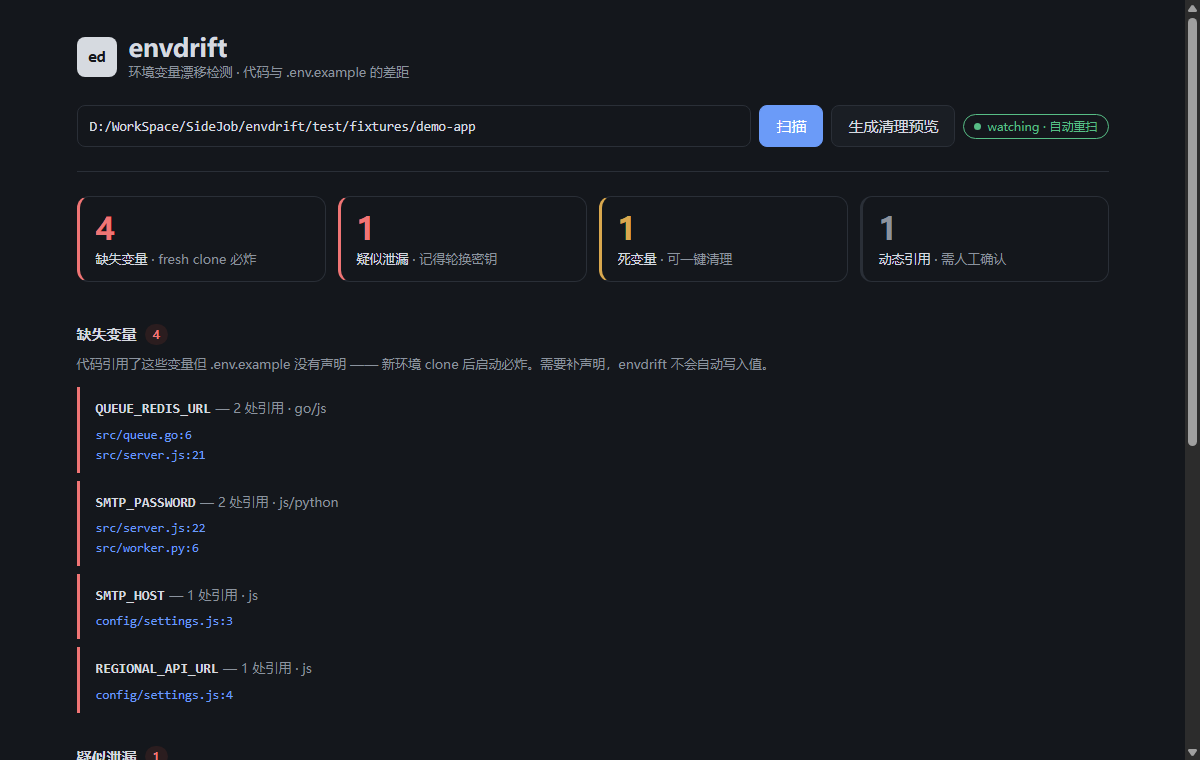
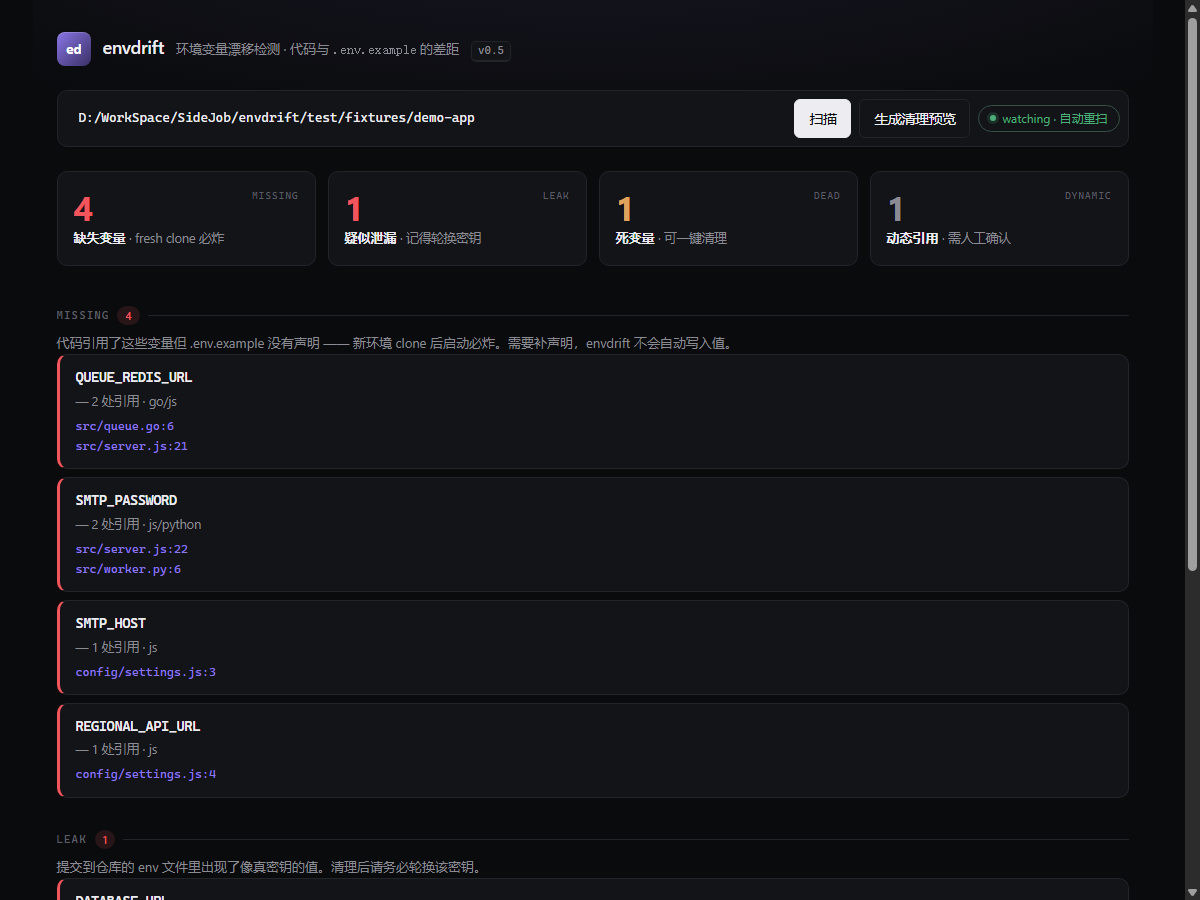
style(ui): redesign dashboard in Linear/Vercel-Geist aesthetic (v0.6)
- dark-first tokens: #0a0b0d base + layered surfaces, 1px hairlines,
  violet accent (#8b77e8 dark / #6e56cf light), top halo gradient
- Inter-led type ramp: tighter headings (-0.02em), mono for all technical
  strings, eyebrow uppercase section headers with hairline rules
- Vercel-style primary button (solid fg on bg), surface scan bar card,
  stat cards with mono uppercase corner tags, zero-state calm
- findings upgraded from left-rail rows to bordered surface cards
- diff: softened row tints via color-mix, ghost gutter numbers
- screenshots refreshed: light, dark, preview

diff --git a/src/web/index.html b/src/web/index.html
@@ -8,167 +8,218 @@
 :root {
   --space-1: 4px; --space-2: 8px; --space-3: 12px; --space-4: 16px;
   --space-5: 24px; --space-6: 32px; --space-7: 48px;
-  --radius-sm: 8px; --radius-md: 12px;
-  --text-sm: 13px; --text-base: 15px; --text-lg: 20px; --text-xl: 25px;
-  --fg: #1a1d21; --fg-muted: #5b6470; --bg: #ffffff; --bg-subtle: #f6f7f9;
-  --line: #e3e6ea; --accent: #2f6df6; --accent-subtle: #eef3fe;
-  --danger: #d93a3a; --danger-subtle: #fdf0f0;
-  --warn: #b97f10; --warn-subtle: #fdf7ea;
-  --ok: #1a7f4b; --ok-subtle: #ecf8f1;
-  --mono: ui-monospace, "JetBrains Mono", Consolas, monospace;
+  --radius-sm: 6px; --radius-md: 10px;
+  --text-sm: 13px; --text-base: 14px; --text-lg: 18px; --text-xl: 24px;
+  /* Geist-flavored light */
+  --bg: #fafafa; --bg-subtle: #f4f4f5; --surface: #ffffff;
+  --fg: #18181b; --fg-muted: #71717a; --fg-faint: #a1a1aa;
+  --line: #e4e4e7; --line-strong: #d4d4d8;
+  --accent: #6e56cf; --accent-subtle: #f0eefb;
+  --danger: #dc3d43; --danger-subtle: #fef1f1;
+  --warn: #b45309; --warn-subtle: #fdf6ec;
+  --ok: #15803d; --ok-subtle: #effaf3;
+  --mono: ui-monospace, "SF Mono", "Cascadia Code", Consolas, monospace;
+  --sans: "Inter", -apple-system, "Segoe UI", "PingFang SC", "Microsoft YaHei", system-ui, sans-serif;
+  --halo: radial-gradient(1200px 320px at 50% -80px, rgba(110, 86, 207, 0.07), transparent 70%);
 }
 @media (prefers-color-scheme: dark) {
   :root {
-    --fg: #d6dae0; --fg-muted: #8b939e; --bg: #14171c; --bg-subtle: #1a1e24;
-    --line: #2a2f37; --accent: #6b9bf8; --accent-subtle: #1d2634;
-    --danger: #f07575; --danger-subtle: #2b1d1f;
-    --warn: #d9a84e; --warn-subtle: #2a2318;
-    --ok: #57bd85; --ok-subtle: #16241d;
+    --bg: #0a0b0d; --bg-subtle: #101114; --surface: #131418;
+    --fg: #ececf1; --fg-muted: #8b8b93; --fg-faint: #5c5c64;
+    --line: #232429; --line-strong: #303138;
+    --accent: #8b77e8; --accent-subtle: #1c1a2e;
+    --danger: #f2555c; --danger-subtle: #271518;
+    --warn: #e0a35c; --warn-subtle: #241c10;
+    --ok: #4cae79; --ok-subtle: #0f1e16;
+    --halo: radial-gradient(1200px 320px at 50% -80px, rgba(139, 119, 232, 0.10), transparent 70%);
   }
 }
 * { box-sizing: border-box; margin: 0; }
+html { background: var(--bg); }
 body {
-  font-family: -apple-system, "PingFang SC", "Microsoft YaHei", system-ui, sans-serif;
+  font-family: var(--sans);
   font-size: var(--text-base); line-height: 1.6; color: var(--fg);
-  background: var(--bg); padding: 0 var(--space-5) var(--space-7);
-  max-width: 1080px; margin: 0 auto;
+  background: var(--halo), var(--bg);
+  padding: 0 var(--space-5) var(--space-7);
+  max-width: 1120px; margin: 0 auto;
+  -webkit-font-smoothing: antialiased; text-rendering: optimizeLegibility;
 }
 button { font: inherit; cursor: pointer; border-radius: var(--radius-sm); }
 :focus-visible { outline: 2px solid var(--accent); outline-offset: 2px; }
+::selection { background: var(--accent-subtle); color: var(--fg); }
 
 /* ---------- header ---------- */
 header { display: flex; align-items: center; gap: var(--space-3); padding: var(--space-6) 0 var(--space-5); flex-wrap: wrap; }
 .logo {
-  width: 40px; height: 40px; border-radius: var(--radius-sm); flex: none;
-  background: var(--fg); color: var(--bg);
+  width: 34px; height: 34px; border-radius: 8px; flex: none;
+  background: linear-gradient(135deg, var(--accent), color-mix(in oklab, var(--accent) 55%, #000));
+  color: #fff;
   display: grid; place-items: center;
-  font-family: var(--mono); font-weight: 700; font-size: 17px; letter-spacing: -0.5px;
+  font-family: var(--mono); font-weight: 700; font-size: 14px; letter-spacing: -0.5px;
+  box-shadow: inset 0 1px 0 rgba(255,255,255,.18), 0 0 0 1px rgba(0,0,0,.06);
 }
-header .titles { display: flex; flex-direction: column; }
-h1 { font-size: var(--text-xl); font-weight: 600; letter-spacing: -0.01em; line-height: 1.25; }
-header .sub { color: var(--fg-muted); font-size: var(--text-sm); line-height: 1.4; }
+header .titles { display: flex; align-items: baseline; gap: var(--space-3); flex-wrap: wrap; }
+h1 { font-size: var(--text-lg); font-weight: 600; letter-spacing: -0.02em; line-height: 1.3; }
+header .sub { color: var(--fg-muted); font-size: var(--text-sm); }
+.kbd {
+  font-family: var(--mono); font-size: 11px; color: var(--fg-muted);
+  border: 1px solid var(--line); border-bottom-width: 2px; border-radius: 5px;
+  padding: 0 6px; background: var(--surface);
+}
 
-.scanrow { display: flex; gap: var(--space-2); padding-bottom: var(--space-5); border-bottom: 1px solid var(--line); flex-wrap: wrap; }
-.scanrow input {
-  flex: 1 1 320px; font: inherit; padding: 9px 12px; border-radius: var(--radius-sm);
-  border: 1px solid var(--line); background: var(--bg); color: var(--fg); min-width: 0;
-  font-family: var(--mono); font-size: 13.5px;
+.scanrow {
+  display: flex; gap: var(--space-2); flex-wrap: wrap;
+  background: var(--surface); border: 1px solid var(--line); border-radius: var(--radius-md);
+  padding: var(--space-2);
+  box-shadow: 0 1px 2px rgba(0,0,0,.04);
 }
-.scanrow input:focus { border-color: var(--accent); outline: none; box-shadow: 0 0 0 3px var(--accent-subtle); }
+.scanrow input {
+  flex: 1 1 340px; font: inherit; padding: 8px 12px; border-radius: var(--radius-sm);
+  border: 1px solid transparent; background: transparent; color: var(--fg); min-width: 0;
+  font-family: var(--mono); font-size: 13px;
+}
+.scanrow input::placeholder { color: var(--fg-faint); }
+.scanrow input:focus { border-color: var(--accent); outline: none; background: var(--bg); }
 .btn {
-  padding: 8px 16px; border: 1px solid var(--line); background: var(--bg-subtle);
-  color: var(--fg); font-weight: 500; transition: background .15s ease-out;
+  padding: 7px 14px; border: 1px solid var(--line); background: var(--surface);
+  color: var(--fg); font-weight: 500; font-size: 13.5px;
+  transition: background .12s ease-out, border-color .12s ease-out;
   display: inline-flex; align-items: center; gap: 7px; white-space: nowrap;
 }
-.btn:hover { background: var(--line); }
+.btn:hover { background: var(--bg-subtle); border-color: var(--line-strong); }
 .btn:active { transform: translateY(0.5px); }
-.btn[disabled] { opacity: .5; cursor: not-allowed; }
-.btn.primary { background: var(--accent); border-color: var(--accent); color: #fff; }
-.btn.primary:hover:not([disabled]) { filter: brightness(1.08); background: var(--accent); }
+.btn[disabled] { opacity: .45; cursor: not-allowed; }
+.btn.primary { background: var(--fg); border-color: var(--fg); color: var(--bg); }
+.btn.primary:hover:not([disabled]) { background: color-mix(in oklab, var(--fg) 88%, var(--accent)); border-color: var(--fg); }
 .btn.danger { background: var(--danger); border-color: var(--danger); color: #fff; }
-.btn.danger:hover { filter: brightness(1.08); background: var(--danger); }
+.btn.danger:hover { filter: brightness(1.06); background: var(--danger); }
 .btn.ghost { background: transparent; border-color: transparent; color: var(--accent); padding: 8px 8px; }
-.btn.ghost:hover { text-decoration: underline; background: transparent; }
-.btn .spin { width: 13px; height: 13px; border-width: 2px; border-color: rgba(255,255,255,.35); border-top-color: #fff; vertical-align: middle; }
+.btn.ghost:hover { text-decoration: underline; background: transparent; border-color: transparent; }
+.btn .spin { width: 13px; height: 13px; border-width: 2px; border-color: rgba(255,255,255,.3); border-top-color: currentColor; vertical-align: middle; }
 .btn:not(.primary):not(.danger) .spin { border-color: var(--line); border-top-color: var(--fg-muted); }
 
 /* watch status pill */
 .watchpill {
   display: inline-flex; align-items: center; gap: 6px;
   font-size: 12px; color: var(--fg-muted);
-  border: 1px solid var(--line); border-radius: 999px; padding: 2px 10px;
-  align-self: center; white-space: nowrap;
+  border: 1px solid var(--line); border-radius: 999px; padding: 3px 11px;
+  align-self: center; white-space: nowrap; background: var(--surface);
 }
-.watchpill .dot { width: 7px; height: 7px; border-radius: 50%; background: var(--fg-muted); }
-.watchpill.on { color: var(--ok); border-color: var(--ok); }
-.watchpill.on .dot { background: var(--ok); }
-.watchpill.stale { color: var(--warn); border-color: var(--warn); }
+.watchpill .dot { width: 6px; height: 6px; border-radius: 50%; background: var(--fg-faint); }
+.watchpill.on { color: var(--ok); border-color: color-mix(in oklab, var(--ok) 35%, var(--line)); }
+.watchpill.on .dot { background: var(--ok); box-shadow: 0 0 0 3px color-mix(in oklab, var(--ok) 18%, transparent); }
+.watchpill.stale { color: var(--warn); border-color: color-mix(in oklab, var(--warn) 35%, var(--line)); }
 .watchpill.stale .dot { background: var(--warn); }
 
 /* ---------- summary: stat blocks ---------- */
 .summary {
-  display: grid; grid-template-columns: repeat(auto-fit, minmax(150px, 1fr));
+  display: grid; grid-template-columns: repeat(auto-fit, minmax(180px, 1fr));
   gap: var(--space-3); padding: var(--space-5) 0 var(--space-2);
   font-variant-numeric: tabular-nums;
 }
 .stat {
-  display: flex; flex-direction: column; gap: 2px;
+  display: flex; flex-direction: column; gap: 1px;
   border: 1px solid var(--line); border-radius: var(--radius-md);
-  padding: var(--space-3) var(--space-4);
-  background: var(--bg);
-  transition: border-color .15s ease-out;
-  text-decoration: none; color: inherit;
+  padding: var(--space-4);
+  background: var(--surface);
+  transition: border-color .12s ease-out, transform .12s ease-out;
+  text-decoration: none; color: inherit; position: relative;
 }
-.stat:hover { border-color: var(--fg-muted); }
-.stat b { font-size: 31px; font-weight: 600; line-height: 1.2; letter-spacing: -0.02em; }
-.stat span { font-size: var(--text-sm); color: var(--fg-muted); }
-.stat .zh { color: var(--fg); font-weight: 500; }
-.stat.missing { border-left: 3px solid var(--danger); }
+.stat:hover { border-color: var(--line-strong); transform: translateY(-1px); }
+.stat b { font-size: 34px; font-weight: 650; line-height: 1.15; letter-spacing: -0.03em; }
+.stat span { font-size: 12.5px; color: var(--fg-muted); }
+.stat .zh { color: var(--fg); font-weight: 550; font-size: 13px; }
+.stat .tag {
+  position: absolute; top: var(--space-4); right: var(--space-4);
+  font-family: var(--mono); font-size: 10px; letter-spacing: .08em; text-transform: uppercase;
+  color: var(--fg-faint);
+}
 .stat.missing b { color: var(--danger); }
-.stat.leaks { border-left: 3px solid var(--danger); }
 .stat.leaks b { color: var(--danger); }
-.stat.dead { border-left: 3px solid var(--warn); }
 .stat.dead b { color: var(--warn); }
-.stat.dynamic { border-left: 3px solid var(--line); }
 .stat.dynamic b { color: var(--fg-muted); }
-.stat.zero b { color: var(--ok); }
-.stat a { text-decoration: none; color: inherit; display: block; }
+.stat.zero b { color: var(--fg-faint); }
+.stat.zero .tag { color: var(--ok); }
 
 /* ---------- sections ---------- */
 section { margin-top: var(--space-6); scroll-margin-top: var(--space-5); }
-section > h2 {
-  font-size: var(--text-base); font-weight: 600; margin-bottom: var(--space-2);
+.eyebrow {
+  font-family: var(--mono); font-size: 11px; font-weight: 600;
+  letter-spacing: .1em; text-transform: uppercase; color: var(--fg-faint);
   display: flex; align-items: center; gap: var(--space-2);
+  margin-bottom: var(--space-2);
 }
-section > .hint { margin-bottom: var(--space-3); }
-.badge { font-size: 12px; font-weight: 600; border-radius: 999px; padding: 1px 8px; }
+.eyebrow::after { content: ""; flex: 1; height: 1px; background: var(--line); }
+.eyebrow .badge {
+  font-family: var(--sans); font-size: 11px; letter-spacing: 0; text-transform: none;
+}
+.badge { font-size: 11.5px; font-weight: 600; border-radius: 999px; padding: 1px 8px; }
 .badge.red { background: var(--danger-subtle); color: var(--danger); }
 .badge.yellow { background: var(--warn-subtle); color: var(--warn); }
 .badge.gray { background: var(--bg-subtle); color: var(--fg-muted); }
 .empty { color: var(--fg-muted); font-size: var(--text-sm); padding: var(--space-3) 0; }
-.okline { color: var(--ok); background: var(--ok-subtle); border-radius: var(--radius-md); padding: var(--space-4) var(--space-5); margin-top: var(--space-5); font-weight: 500; }
+.okline {
+  color: var(--ok); background: var(--ok-subtle);
+  border: 1px solid color-mix(in oklab, var(--ok) 25%, transparent);
+  border-radius: var(--radius-md); padding: var(--space-4) var(--space-5);
+  margin-top: var(--space-5); font-weight: 500;
+}
 
 /* ---------- finding rows ---------- */
-.finding { border-left: 3px solid var(--line); padding: var(--space-2) 0 var(--space-2) var(--space-4); margin-bottom: var(--space-2); }
-.finding.missing { border-color: var(--danger); }
-.finding.leak { border-color: var(--danger); background: var(--danger-subtle); border-radius: 0 var(--radius-sm) var(--radius-sm) 0; }
-.finding.dead { border-color: var(--warn); }
-.finding .name { font-family: var(--mono); font-weight: 600; font-size: 14px; }
-.finding .meta { color: var(--fg-muted); font-size: var(--text-sm); }
+.finding {
+  display: flex; flex-direction: column; gap: 2px;
+  border: 1px solid var(--line); border-radius: var(--radius-md);
+  background: var(--surface);
+  padding: var(--space-3) var(--space-4);
+  margin-bottom: var(--space-2);
+  transition: border-color .12s ease-out;
+}
+.finding:hover { border-color: var(--line-strong); }
+.finding.missing { border-left: 3px solid var(--danger); }
+.finding.leak { border-left: 3px solid var(--danger); }
+.finding.dead { border-left: 3px solid var(--warn); }
+.finding .name { font-family: var(--mono); font-weight: 600; font-size: 13.5px; letter-spacing: -0.01em; }
+.finding .meta { color: var(--fg-muted); font-size: 12.5px; }
 .finding .src {
-  font-family: var(--mono); font-size: 12.5px; margin-top: var(--space-1);
+  font-family: var(--mono); font-size: 12px; margin-top: var(--space-1);
   color: var(--fg-muted); white-space: pre-wrap; word-break: break-all;
 }
 .finding.leak .src { color: var(--danger); }
 .finding.dead .src { color: var(--warn); }
-.finding .refs { margin: var(--space-1) 0 0; padding: 0; list-style: none; }
-.finding .refs li { font-family: var(--mono); font-size: 12.5px; color: var(--fg-muted); }
+.finding .refs { margin: var(--space-1) 0 0; padding: 0; list-style: none; display: flex; flex-direction: column; gap: 1px; }
+.finding .refs li { font-family: var(--mono); font-size: 12px; color: var(--fg-muted); }
 .finding .refs a { color: var(--accent); text-decoration: none; }
 .finding .refs a:hover { text-decoration: underline; }
 
 /* ---------- diff preview ---------- */
-.diff { font-family: var(--mono); font-size: 12.5px; background: var(--bg-subtle); border: 1px solid var(--line); border-radius: var(--radius-md); overflow: hidden; }
+.diff {
+  font-family: var(--mono); font-size: 12.5px;
+  background: var(--bg-subtle); border: 1px solid var(--line);
+  border-radius: var(--radius-md); overflow: hidden;
+  box-shadow: 0 1px 2px rgba(0,0,0,.04);
+}
 .diff .file {
   padding: var(--space-2) var(--space-4); border-bottom: 1px solid var(--line);
-  font-weight: 600; background: var(--bg); position: sticky; top: 0;
+  font-weight: 550; background: var(--surface); position: sticky; top: 0;
   display: flex; align-items: center; gap: var(--space-2);
+  font-family: var(--mono); font-size: 12px;
 }
 .diff .file .ficon {
-  font-family: var(--mono); font-size: 11px; font-weight: 600;
+  font-size: 10px; font-weight: 600; letter-spacing: .06em; text-transform: uppercase;
   color: var(--accent); background: var(--accent-subtle);
-  border-radius: 4px; padding: 0 5px;
+  border-radius: 4px; padding: 1px 6px;
 }
-.diff .hunk { padding: var(--space-2) 0; }
-.diff .row { display: grid; grid-template-columns: 44px 1fr; }
+.diff .hunk { padding: var(--space-2) 0; background: var(--bg-subtle); }
+.diff .row { display: grid; grid-template-columns: 48px 1fr; }
 .diff .row .ln {
-  text-align: right; padding-right: var(--space-3); color: var(--fg-muted);
-  opacity: .55; user-select: none; font-size: 11.5px; line-height: 1.9;
+  text-align: right; padding-right: var(--space-3); color: var(--fg-faint);
+  user-select: none; font-size: 11px; line-height: 2;
 }
-.diff .row .tx { white-space: pre-wrap; word-break: break-all; line-height: 1.9; padding-right: var(--space-4); }
-.diff .row.del { background: var(--danger-subtle); }
+.diff .row .tx { white-space: pre-wrap; word-break: break-all; line-height: 2; padding-right: var(--space-4); }
+.diff .row.del { background: color-mix(in oklab, var(--danger) 7%, transparent); }
 .diff .row.del .tx { color: var(--danger); }
 .diff .row.del .tx::before { content: "− "; font-weight: 700; }
-.diff .row.add { background: var(--ok-subtle); }
+.diff .row.add { background: color-mix(in oklab, var(--ok) 8%, transparent); }
 .diff .row.add .tx { color: var(--ok); }
 .diff .row.add .tx::before { content: "+ "; font-weight: 700; }
 .diff .row.ctx .tx { color: var(--fg-muted); }
@@ -176,14 +227,27 @@ section > .hint { margin-bottom: var(--space-3); }
 .hint { font-size: var(--text-sm); color: var(--fg-muted); }
 .spin { display: inline-block; width: 14px; height: 14px; border: 2px solid var(--line); border-top-color: var(--accent); border-radius: 50%; animation: r .7s linear infinite; vertical-align: -2px; }
 @keyframes r { to { transform: rotate(360deg); } }
-@media (prefers-reduced-motion: reduce) { .spin { animation: none; border-top-color: var(--fg-muted); } }
-.result { margin-top: var(--space-4); border: 1px solid var(--line); border-radius: var(--radius-md); padding: var(--space-3) var(--space-4); background: var(--bg-subtle); }
-.result .vfile { font-size: var(--text-sm); font-family: var(--mono); padding: 2px 0; }
+@media (prefers-reduced-motion: reduce) { .spin { animation: none; border-top-color: var(--fg-muted); } .stat:hover { transform: none; } }
+.result {
+  margin-top: var(--space-4); border: 1px solid var(--line); border-radius: var(--radius-md);
+  padding: var(--space-3) var(--space-4); background: var(--surface);
+}
+.result .vfile { font-size: 12.5px; font-family: var(--mono); padding: 2px 0; }
 .result .vfile.ok { color: var(--ok); }
 .result .vfile.bad { color: var(--danger); }
-.error { background: var(--danger-subtle); color: var(--danger); border-radius: var(--radius-sm); padding: var(--space-3) var(--space-4); margin-top: var(--space-4); font-size: var(--text-sm); }
-footer { margin-top: var(--space-7); color: var(--fg-muted); font-size: var(--text-sm); border-top: 1px solid var(--line); padding-top: var(--space-4); }
-footer a { color: var(--accent); }
+.error {
+  background: var(--danger-subtle); color: var(--danger);
+  border: 1px solid color-mix(in oklab, var(--danger) 25%, transparent);
+  border-radius: var(--radius-md); padding: var(--space-3) var(--space-4);
+  margin-top: var(--space-4); font-size: var(--text-sm);
+}
+footer { margin-top: var(--space-7); color: var(--fg-faint); font-size: 12.5px; border-top: 1px solid var(--line); padding-top: var(--space-4); display: flex; gap: var(--space-2); flex-wrap: wrap; }
+footer a { color: var(--fg-muted); text-decoration: none; }
+footer a:hover { color: var(--fg); text-decoration: underline; }
+@media (max-width: 640px) {
+  .stat b { font-size: 28px; }
+  .scanrow .btn { flex: 1 1 auto; justify-content: center; }
+}
 </style>
 </head>
 <body>
@@ -191,7 +255,8 @@ footer a { color: var(--accent); }
   <div class="logo" aria-hidden="true">ed</div>
   <div class="titles">
     <h1>envdrift</h1>
-    <span class="sub">环境变量漂移检测 · 代码与 .env.example 的差距</span>
+    <span class="sub">环境变量漂移检测 · 代码与 <code>.env.example</code> 的差距</span>
+    <span class="kbd">v0.5</span>
   </div>
 </header>
 
@@ -206,40 +271,40 @@ footer a { color: var(--accent); }
 <div id="error" class="error" hidden></div>
 
 <div id="summary" class="summary" hidden>
-  <a class="stat missing" href="#sec-missing" id="stat-missing"><b id="st-missing">–</b><span><span class="zh">缺失变量</span> · fresh clone 必炸</span></a>
-  <a class="stat leaks" href="#sec-leaks" id="stat-leaks"><b id="st-leaks">–</b><span><span class="zh">疑似泄漏</span> · 记得轮换密钥</span></a>
-  <a class="stat dead" href="#sec-dead" id="stat-dead"><b id="st-dead">–</b><span><span class="zh">死变量</span> · 可一键清理</span></a>
-  <span class="stat dynamic" id="stat-dynamic"><b id="st-dynamic">–</b><span><span class="zh">动态引用</span> · 需人工确认</span></span>
+  <a class="stat missing" href="#sec-missing" id="stat-missing"><span class="tag">missing</span><b id="st-missing">–</b><span><span class="zh">缺失变量</span> · fresh clone 必炸</span></a>
+  <a class="stat leaks" href="#sec-leaks" id="stat-leaks"><span class="tag">leak</span><b id="st-leaks">–</b><span><span class="zh">疑似泄漏</span> · 记得轮换密钥</span></a>
+  <a class="stat dead" href="#sec-dead" id="stat-dead"><span class="tag">dead</span><b id="st-dead">–</b><span><span class="zh">死变量</span> · 可一键清理</span></a>
+  <span class="stat dynamic" id="stat-dynamic"><span class="tag">dynamic</span><b id="st-dynamic">–</b><span><span class="zh">动态引用</span> · 需人工确认</span></span>
 </div>
 
 <div id="clean" class="okline" hidden>✓ 无漂移 —— 代码与 .env.example 保持同步</div>
 
 <section id="sec-missing" hidden>
-  <h2>缺失变量 <span class="badge red" id="n-missing"></span></h2>
+  <div class="eyebrow">Missing <span class="badge red" id="n-missing"></span></div>
   <p class="hint">代码引用了这些变量但 .env.example 没有声明 —— 新环境 clone 后启动必炸。需要补声明，envdrift 不会自动写入值。</p>
   <div id="list-missing"></div>
 </section>
 
 <section id="sec-leaks" hidden>
-  <h2>疑似泄漏 <span class="badge red" id="n-leaks"></span></h2>
+  <div class="eyebrow">Leak <span class="badge red" id="n-leaks"></span></div>
   <p class="hint">提交到仓库的 env 文件里出现了像真密钥的值。清理后请务必轮换该密钥。</p>
   <div id="list-leaks"></div>
 </section>
 
 <section id="sec-dead" hidden>
-  <h2>死变量 <span class="badge yellow" id="n-dead"></span></h2>
+  <div class="eyebrow">Dead <span class="badge yellow" id="n-dead"></span></div>
   <p class="hint">声明了但代码从未引用。确认无用后可通过清理删除。</p>
   <div id="list-dead"></div>
 </section>
 
 <section id="sec-dynamic" hidden>
-  <h2>动态引用 <span class="badge gray" id="n-dynamic"></span></h2>
+  <div class="eyebrow">Dynamic <span class="badge gray" id="n-dynamic"></span></div>
   <p class="hint">运行时变量名查找，静态分析无法判定，请人工确认。</p>
   <div id="list-dynamic"></div>
 </section>
 
 <section id="sec-preview" hidden>
-  <h2>清理预览 <span class="badge yellow" id="n-plan"></span></h2>
+  <div class="eyebrow">Cleanup plan <span class="badge yellow" id="n-plan"></span></div>
   <div id="diff" class="diff"></div>
   <div class="actions">
     <button id="apply" class="btn danger">应用清理</button>
